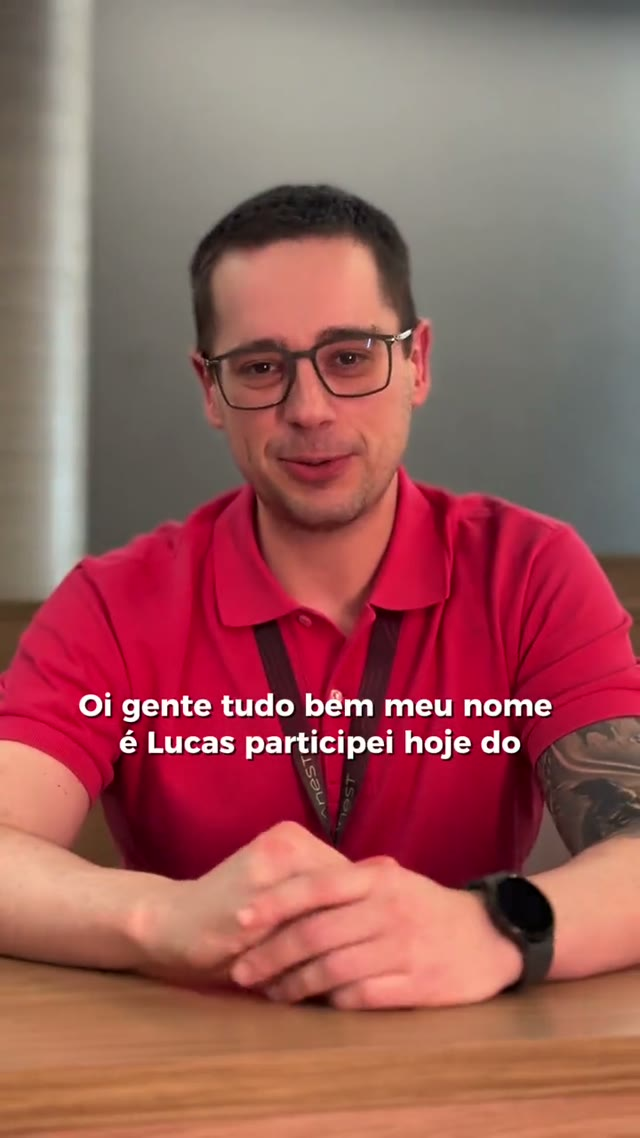
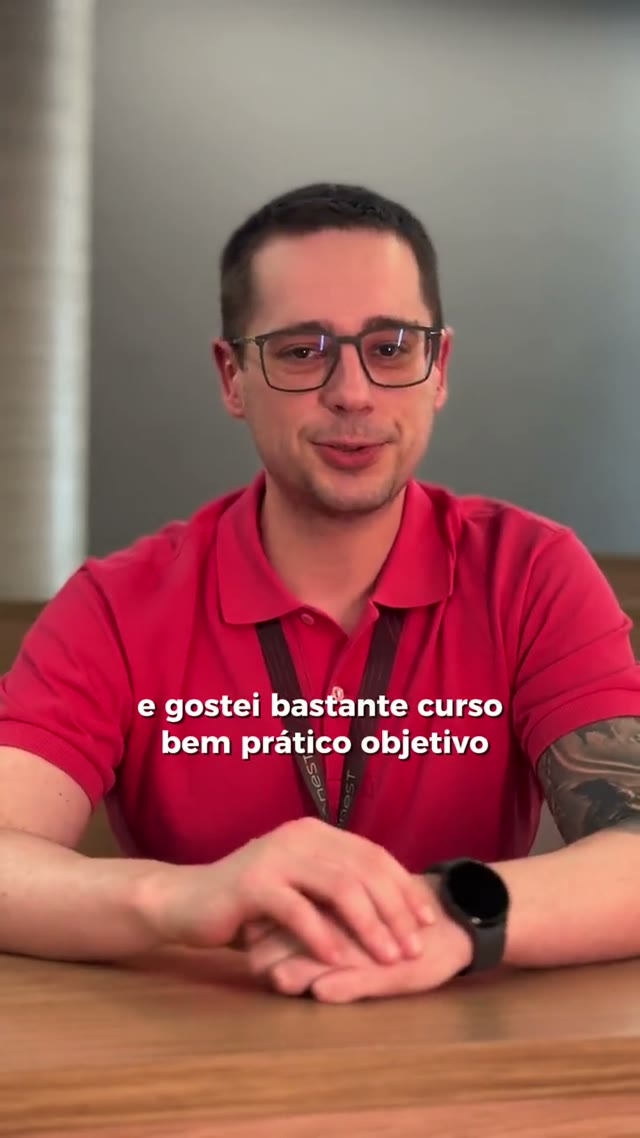
Depoimentos com título e ordem novos, contador animado e arte do hero
Os posters passam a vir dos momentos escolhidos: Sandra em 1:08, Pablo
em 0:16 e Lucas em 0:10. Sandra abre a fileira e todos ganham título:
Dra. Sandra, Dr. Pablo e Dr. Lucas, também nas citações em texto.

O "+100" conta de zero quando entra na tela, com desaceleração no fim.
O número final fica no HTML desde o começo, então quem não roda
JavaScript vê o valor certo.

A arte do hero da home entra apagada, ganha presença e recua para a
opacidade final, como acontece na Segunda Fase.

diff --git a/src/lib/courses.ts b/src/lib/courses.ts
@@ -132,22 +132,22 @@ export const ANEST_US_SECTIONS = [
 
 export const TESTIMONIALS: Testimonial[] = [
   {
-    id: "pablo",
-    name: "Pablo",
-    role: "Aluno do Hands On Anest US",
-    src: "/videos/depoimentos/pablo.mp4",
-    poster: "/images/anest-us/depoimento-pablo.jpg",
-  },
-  {
     id: "sandra",
-    name: "Sandra",
+    name: "Dra. Sandra",
     role: "Aluna do Hands On Anest US",
     src: "/videos/depoimentos/sandra.mp4",
     poster: "/images/anest-us/depoimento-sandra.jpg",
   },
   {
+    id: "pablo",
+    name: "Dr. Pablo",
+    role: "Aluno do Hands On Anest US",
+    src: "/videos/depoimentos/pablo.mp4",
+    poster: "/images/anest-us/depoimento-pablo.jpg",
+  },
+  {
     id: "lucas",
-    name: "Lucas",
+    name: "Dr. Lucas",
     role: "Aluno do Hands On Anest US",
     src: "/videos/depoimentos/lucas.mp4",
     poster: "/images/anest-us/depoimento-lucas.jpg",
@@ -280,16 +280,18 @@ export const COURSES: Course[] = [
       },
       proof: {
         stat: "+100",
+        statValue: 100,
+        statPrefix: "+",
         statLabel: "alunos já fizeram o treinamento presencial",
         title: "Quem fez conta o que mudou",
         quotes: [
           {
             text: "Foi um diferencial, porque na minha residência não tinha muita mão e agora eu aprendi.",
-            author: "Lucas, aluno do Hands On Anest US",
+            author: "Dr. Lucas, aluno do Hands On Anest US",
           },
           {
             text: "Mesmo depois de 10 anos de formado e sem nunca ter tido contato com ultrassom, o Dr. Lucas Rodrigues pegou na minha mão e me ensinou. Foi excelente, indico a todos.",
-            author: "Pablo, aluno do Hands On Anest US",
+            author: "Dr. Pablo, aluno do Hands On Anest US",
           },
         ],
       },

diff --git a/src/components/count-up.tsx b/src/components/count-up.tsx
@@ -1,0 +1,56 @@
+"use client";
+
+import { useEffect, useRef } from "react";
+
+/**
+ * Counts from zero up to the target once the number scrolls into view.
+ * The final value is in the markup from the start, so it is what search
+ * engines and readers without JavaScript see.
+ */
+export function CountUp({
+  to,
+  prefix = "",
+  duration = 1600,
+}: {
+  to: number;
+  prefix?: string;
+  duration?: number;
+}) {
+  const ref = useRef<HTMLSpanElement>(null);
+
+  useEffect(() => {
+    const element = ref.current;
+    if (!element) return;
+    if (window.matchMedia("(prefers-reduced-motion: reduce)").matches) return;
+
+    const observer = new IntersectionObserver(
+      ([entry]) => {
+        if (!entry.isIntersecting) return;
+        observer.disconnect();
+
+        const start = performance.now();
+        const tick = (now: number) => {
+          const t = Math.min((now - start) / duration, 1);
+          // Desacelera no fim, para o número assentar em vez de travar.
+          const eased = 1 - Math.pow(1 - t, 3);
+          element.textContent = `${prefix}${Math.round(to * eased)}`;
+          if (t < 1) requestAnimationFrame(tick);
+        };
+
+        element.textContent = `${prefix}0`;
+        requestAnimationFrame(tick);
+      },
+      { threshold: 0.6 },
+    );
+
+    observer.observe(element);
+    return () => observer.disconnect();
+  }, [to, prefix, duration]);
+
+  return (
+    <span ref={ref}>
+      {prefix}
+      {to}
+    </span>
+  );
+}

diff --git a/src/app/globals.css b/src/app/globals.css
@@ -257,6 +257,8 @@ li {
   text-align: center;
 }
 
+/* A arte entra desenhando e depois recua: mesma leitura do hero da
+   Segunda Fase, onde o traço ganha presença e some. */
 [data-theme="store"] .apple-hero::after {
   position: absolute;
   z-index: 0;
@@ -267,6 +269,34 @@ li {
   opacity: 0.1;
   pointer-events: none;
   mask-image: linear-gradient(90deg, transparent 48%, #000 78%);
+  animation: store-art-settle 3.2s cubic-bezier(0.2, 0, 0, 1) 0.2s both;
+}
+
+@keyframes store-art-settle {
+  0% {
+    opacity: 0;
+  }
+  35% {
+    opacity: 0.26;
+  }
+  100% {
+    opacity: 0.1;
+  }
+}
+
+@keyframes store-art-settle-mirror {
+  0% {
+    opacity: 0;
+    transform: scaleX(-1);
+  }
+  35% {
+    opacity: 0.22;
+    transform: scaleX(-1);
+  }
+  100% {
+    opacity: 0.08;
+    transform: scaleX(-1);
+  }
 }
 
 [data-theme="store"] .apple-hero::before {
@@ -280,6 +310,14 @@ li {
   pointer-events: none;
   mask-image: linear-gradient(90deg, transparent 48%, #000 78%);
   transform: scaleX(-1);
+  animation: store-art-settle-mirror 3.2s cubic-bezier(0.2, 0, 0, 1) 0.45s both;
+}
+
+@media (prefers-reduced-motion: reduce) {
+  [data-theme="store"] .apple-hero::before,
+  [data-theme="store"] .apple-hero::after {
+    animation: none;
+  }
 }
 
 [data-theme="store"] .apple-hero > * {

diff --git a/src/components/course-catalog.tsx b/src/components/course-catalog.tsx
@@ -10,6 +10,7 @@ import {
 } from "lucide-react";
 import Link from "next/link";
 import { BrandMark } from "@/components/brand-mark";
+import { CountUp } from "@/components/count-up";
 import { WHATSAPP_URL } from "@/lib/site";
 import {
   VideoTestimonials,
@@ -68,6 +69,9 @@ export type Course = {
 };
 
 export type CourseProof = {
+  /** Número que o contador anima; `stat` é o texto exibido sem JS. */
+  statValue?: number;
+  statPrefix?: string;
   stat: string;
   statLabel: string;
   title: string;
@@ -265,7 +269,14 @@ export function CourseCatalog({
                   {open.detail.proof ? (
                     <>
                       <p className="course-proof-stat">
-                        {open.detail.proof.stat}
+                        {open.detail.proof.statValue ? (
+                          <CountUp
+                            to={open.detail.proof.statValue}
+                            prefix={open.detail.proof.statPrefix ?? ""}
+                          />
+                        ) : (
+                          open.detail.proof.stat
+                        )}
                         <span>{open.detail.proof.statLabel}</span>
                       </p>
                       <h3>{open.detail.proof.title}</h3>
